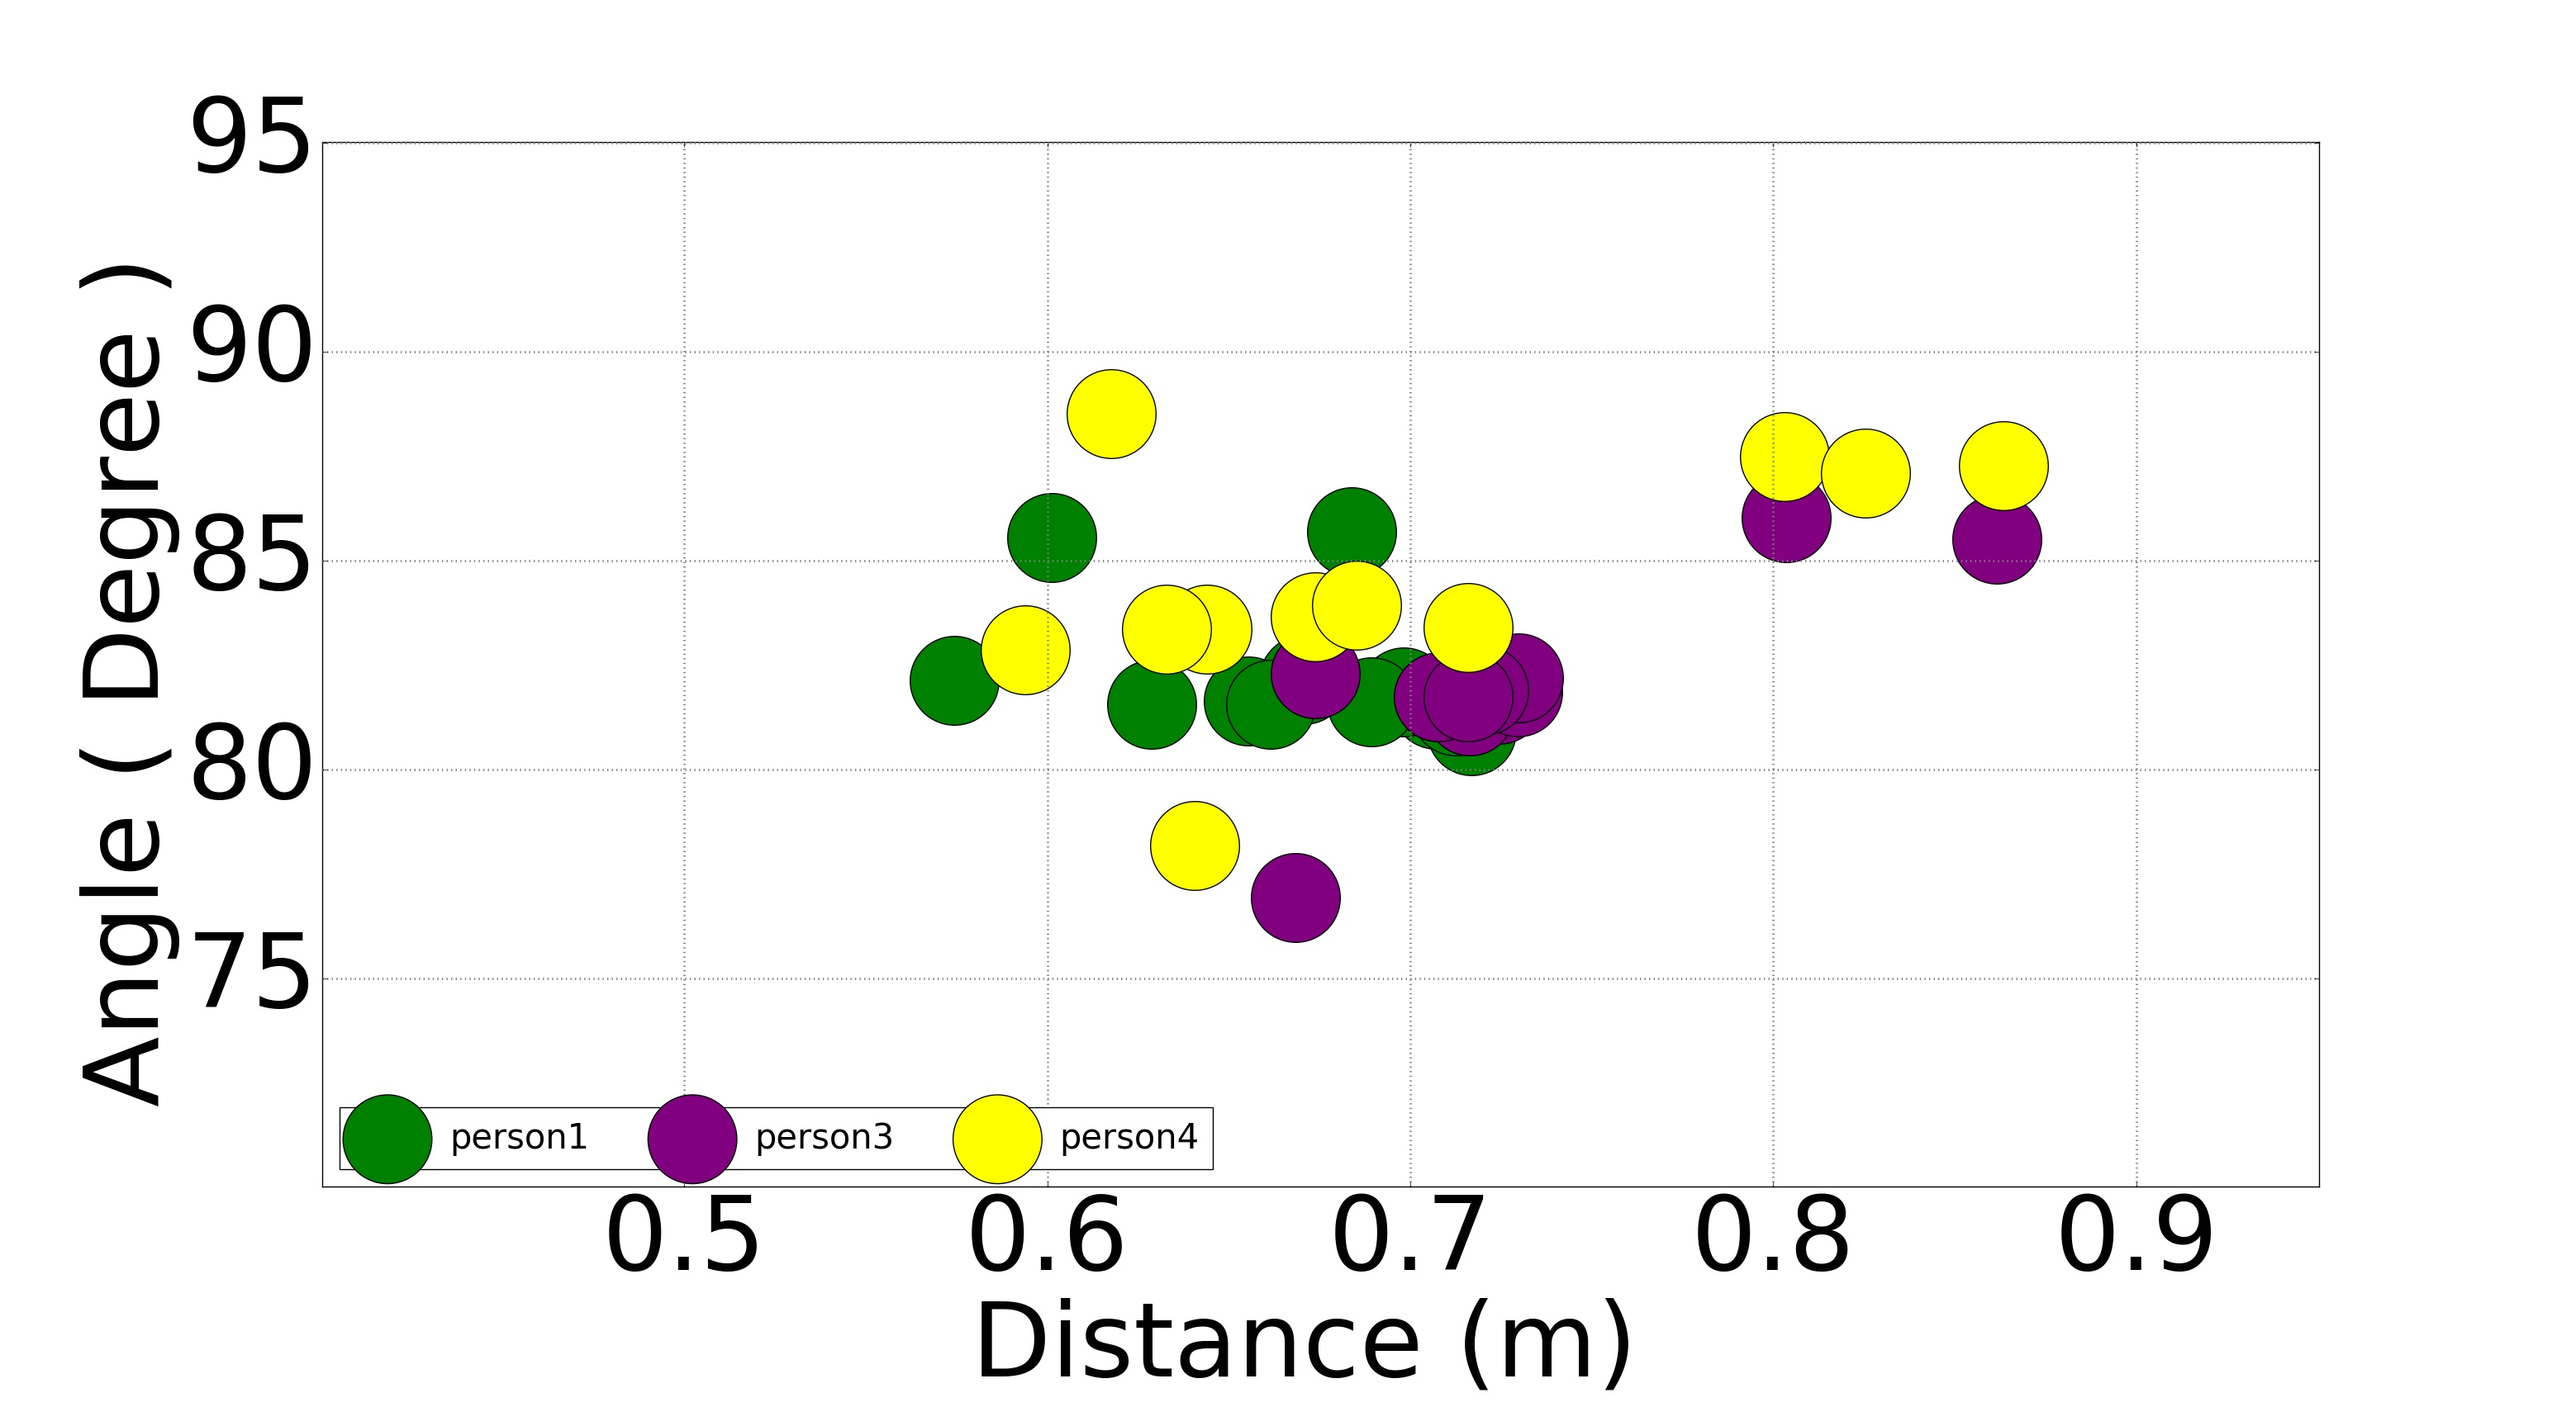
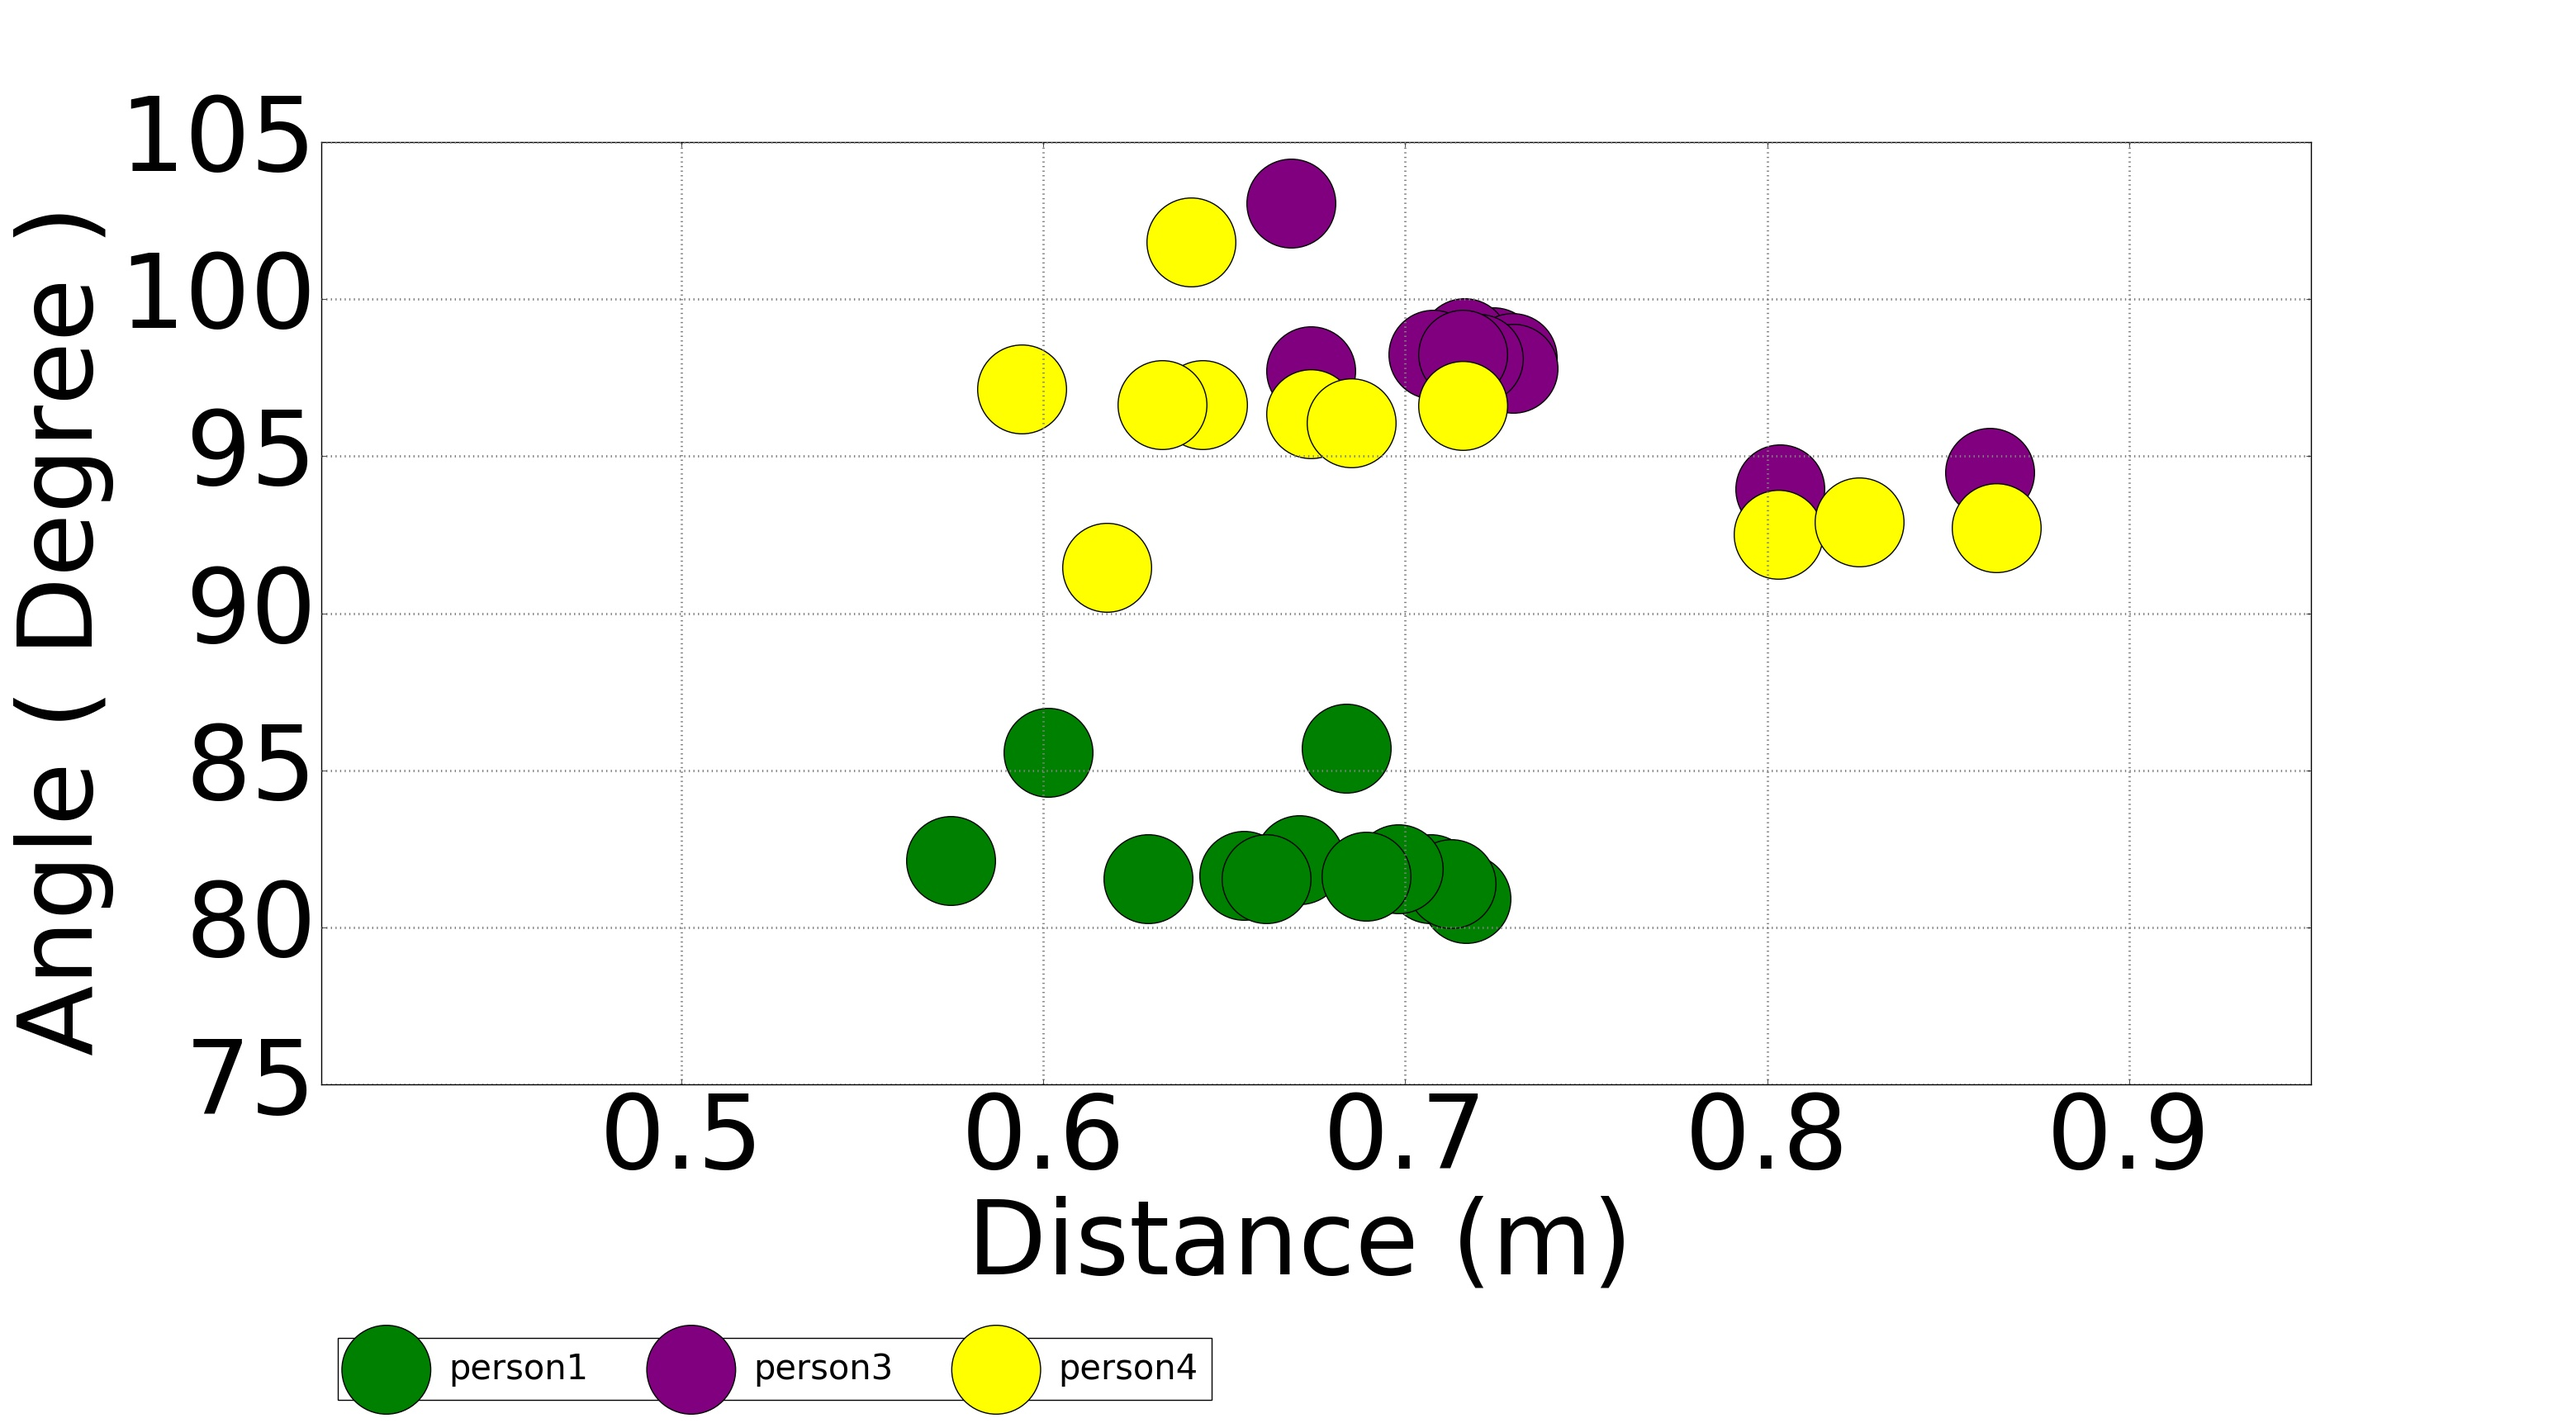
fixed graph and add publish odom for visualization

diff --git a/nodes/analyze_pose.py b/nodes/analyze_pose.py
@@ -64,7 +64,6 @@ with open('10_round_data.csv', 'rb') as csvfile:
         x2 = float(x_pose_person[u])
         y1 = float(y[i])
         y2 = float(y_pose_person[u])
-        
         print " orang ke : ",u
         dist = math.sqrt( ((x2-x1)**2) + ((y2-y1)**2) )
         # distance.append(dist)
@@ -76,14 +75,20 @@ with open('10_round_data.csv', 'rb') as csvfile:
         # else:
         #     yaw1 = yaw1 = (float(yaw[i]) * 180 / math.pi)
         
-
-        if u == 4:
-            yaw1 = 180 - abs(float(float(yaw[i])  * 180 / math.pi))
-        else:
-            yaw1 = (float(yaw[i]) * 180 / math.pi)
+        # this configuration is only for this data 
+       
+        yaw1 = (float(yaw[i]) * 180 / math.pi)
 
         yaw2 = float(yaw_pose_person[u])  * 180 / math.pi # change to degree
-        angle =abs(abs(yaw2) - abs(yaw1))
+
+        if u == 0:
+            angle =abs(abs(yaw2) - abs(yaw1))
+        elif u == 1 or u == 4:
+            angle = 180-(abs(yaw1))-(abs(yaw2))
+        elif u == 2 or u == 3:
+            angle = 180-(abs(yaw1))+(abs(yaw2))
+        
+
 
 
         # # alternative for angle 
@@ -139,9 +144,10 @@ with open('10_round_data.csv', 'rb') as csvfile:
     plt.legend((sofa1,sofa2),
            ('person2', 'person5'),
            scatterpoints=1,
-           loc='lower left',
+           loc='upper left',
            ncol=3,
-           fontsize=30)
+           fontsize=30,
+           bbox_to_anchor=(0, -0.25))
     plt.show()
     fig.savefig('Result_Sofa.jpg')
 
@@ -155,7 +161,7 @@ with open('10_round_data.csv', 'rb') as csvfile:
     chair1 = plt.scatter(dist_chair, angle_chair, s=6000,c = "green",label='person 1')
     chair2 = plt.scatter(dist_chair2, angle_chair2, s=6000,c = "purple",label='person 3')
     chair3 = plt.scatter(dist_chair3, angle_chair3, s=6000,c = "yellow",label='person 4')
-    plt.axis([0.4, 0.95, 70, 95])
+    plt.axis([0.4, 0.95, 75, 105])
     # plt.axis('tight')
     
    
@@ -166,9 +172,10 @@ with open('10_round_data.csv', 'rb') as csvfile:
     plt.legend((chair1,chair2,chair3),
            ('person1', 'person3','person4'),
            scatterpoints=1,
-           loc='lower left',
+           loc='upper left',
            ncol=3,
-           fontsize=30)
+           fontsize=30,
+           bbox_to_anchor=(0, -0.25))
     plt.show()
     fig2.savefig('Result_Chair.jpg')
 

diff --git a/nodes/pose_direction.py b/nodes/pose_direction.py
@@ -1,0 +1,51 @@
+#!/usr/bin/env python
+
+from tf.transformations import euler_from_quaternion, quaternion_from_euler
+import rospy
+import tf
+import tf2_ros
+import csv
+import numpy as np
+from nav_msgs.msg import Odometry
+from geometry_msgs.msg import Point, Pose, Quaternion, Twist, Vector3
+
+
+
+if __name__ == "__main__":
+    rospy.init_node('pose_direction')
+    odom_pub = rospy.Publisher("odom", Odometry, queue_size=50)
+    rospy.loginfo("pose_direction node starting")
+    while not rospy.is_shutdown():
+        with open('10_round_data.csv', 'rb') as csvfile:
+            spamreader = csv.reader(csvfile, delimiter=',')
+            x = [] 
+            y = []
+            yaw = []
+            for row in spamreader:
+                x.append(row[0])
+                y.append(row[1])
+                yaw.append(row[2])
+            
+            for i in range(1,len(x)-1):
+                            # next, we'll publish the odometry message over ROS
+                odom = Odometry()
+                odom.header.stamp = rospy.Time.now()
+                odom.header.frame_id = "map"
+               
+                q = tf.transformations.quaternion_from_euler(0, 0, float(yaw[i]))
+                
+
+                # set the position
+                odom.pose.pose = Pose(Point(float(x[i]), float(y[i]), 0.), Quaternion(*q))
+
+                # set the velocity
+                odom.child_frame_id = "pose "+str(i)
+                
+
+                # publish the message
+                odom_pub.publish(odom)
+
+
+
+    rospy.spin()
+
